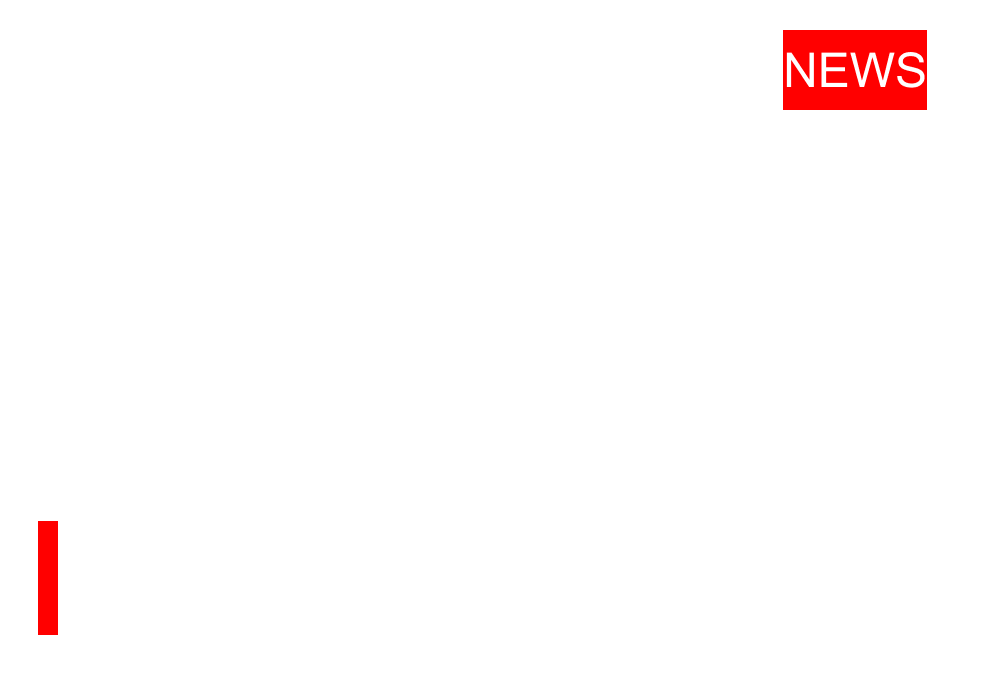
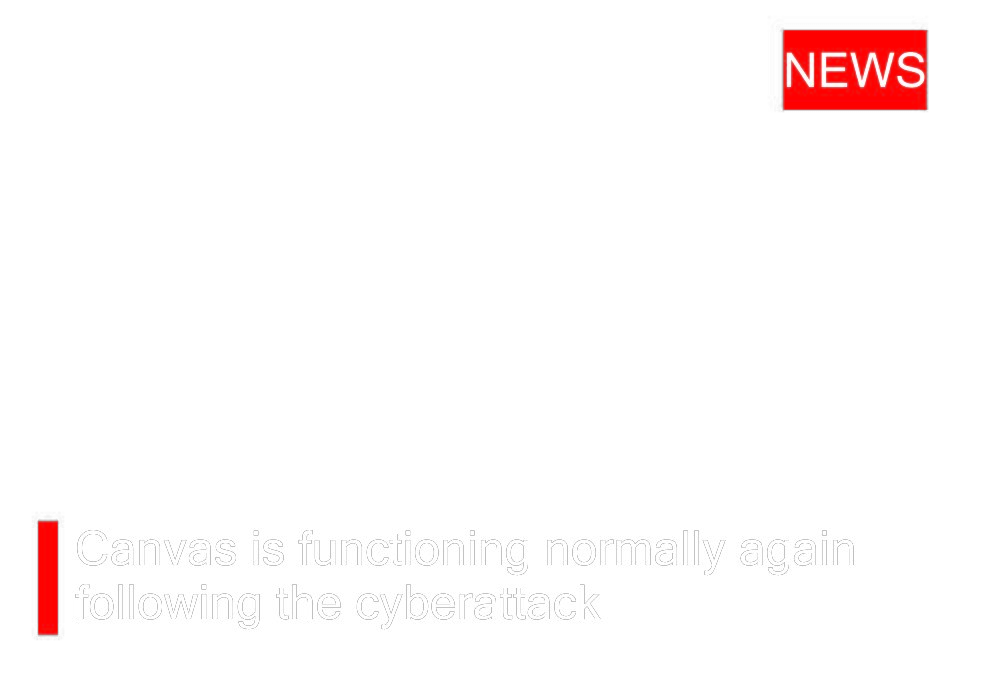
update

diff --git a/script.js b/script.js
@@ -175,22 +175,34 @@ function ensureCooldownTicker() {
     }, 250);
 }
 
+// 取景框比例（4:3），拍照按此比例居中裁剪，保证所见即所得
+const CAPTURE_ASPECT = 4 / 3;
+
 function captureFrameDataUrl(quality) {
     const vw = video.videoWidth;
     const vh = video.videoHeight;
     if (!vw || !vh) return null;
-    canvas.width = vw;
-    canvas.height = vh;
+
+    // 按 4:3 居中裁剪视频源，模拟取景框的 object-fit: cover
+    let sw = vw;
+    let sh = Math.round(vw / CAPTURE_ASPECT);
+    if (sh > vh) {
+        sh = vh;
+        sw = Math.round(vh * CAPTURE_ASPECT);
+    }
+    const sx = Math.round((vw - sw) / 2);
+    const sy = Math.round((vh - sh) / 2);
+
+    canvas.width = sw;
+    canvas.height = sh;
     const ctx = canvas.getContext('2d');
     ctx.globalCompositeOperation = 'source-over';
-    ctx.drawImage(video, 0, 0, vw, vh);
+    ctx.drawImage(video, sx, sy, sw, sh, 0, 0, sw, sh);
 
-    // 叠加新闻边框：screen 模式让黑底透明，与取景框一致
+    // 叠加新闻边框（PNG 已带透明通道，普通合成即可）
     const overlay = overlayImages[currentOverlayKey];
     if (overlay && overlay.complete && overlay.naturalWidth) {
-        ctx.globalCompositeOperation = 'screen';
-        drawCover(ctx, overlay, vw, vh);
-        ctx.globalCompositeOperation = 'source-over';
+        drawCover(ctx, overlay, sw, sh);
     }
 
     return canvas.toDataURL('image/jpeg', quality);

diff --git a/style.css b/style.css
@@ -88,8 +88,7 @@ body {
     width: 100%;
     height: 100%;
     object-fit: cover;
-    /* 黑底变透明，透出摄像头画面，只留白字与红色 NEWS 块 */
-    mix-blend-mode: screen;
+    /* PNG 已带透明通道：黑底透明，文字/红块不透明，普通叠加即可 */
     pointer-events: none;
     z-index: 2;
 }
@@ -190,7 +189,7 @@ body {
 
 .photo-slot {
     width: 100%;
-    aspect-ratio: 1 / 1;
+    aspect-ratio: 4 / 3;
     background: white;
     box-shadow: 0 4px 10px rgba(0,0,0,0.12);
     overflow: hidden;